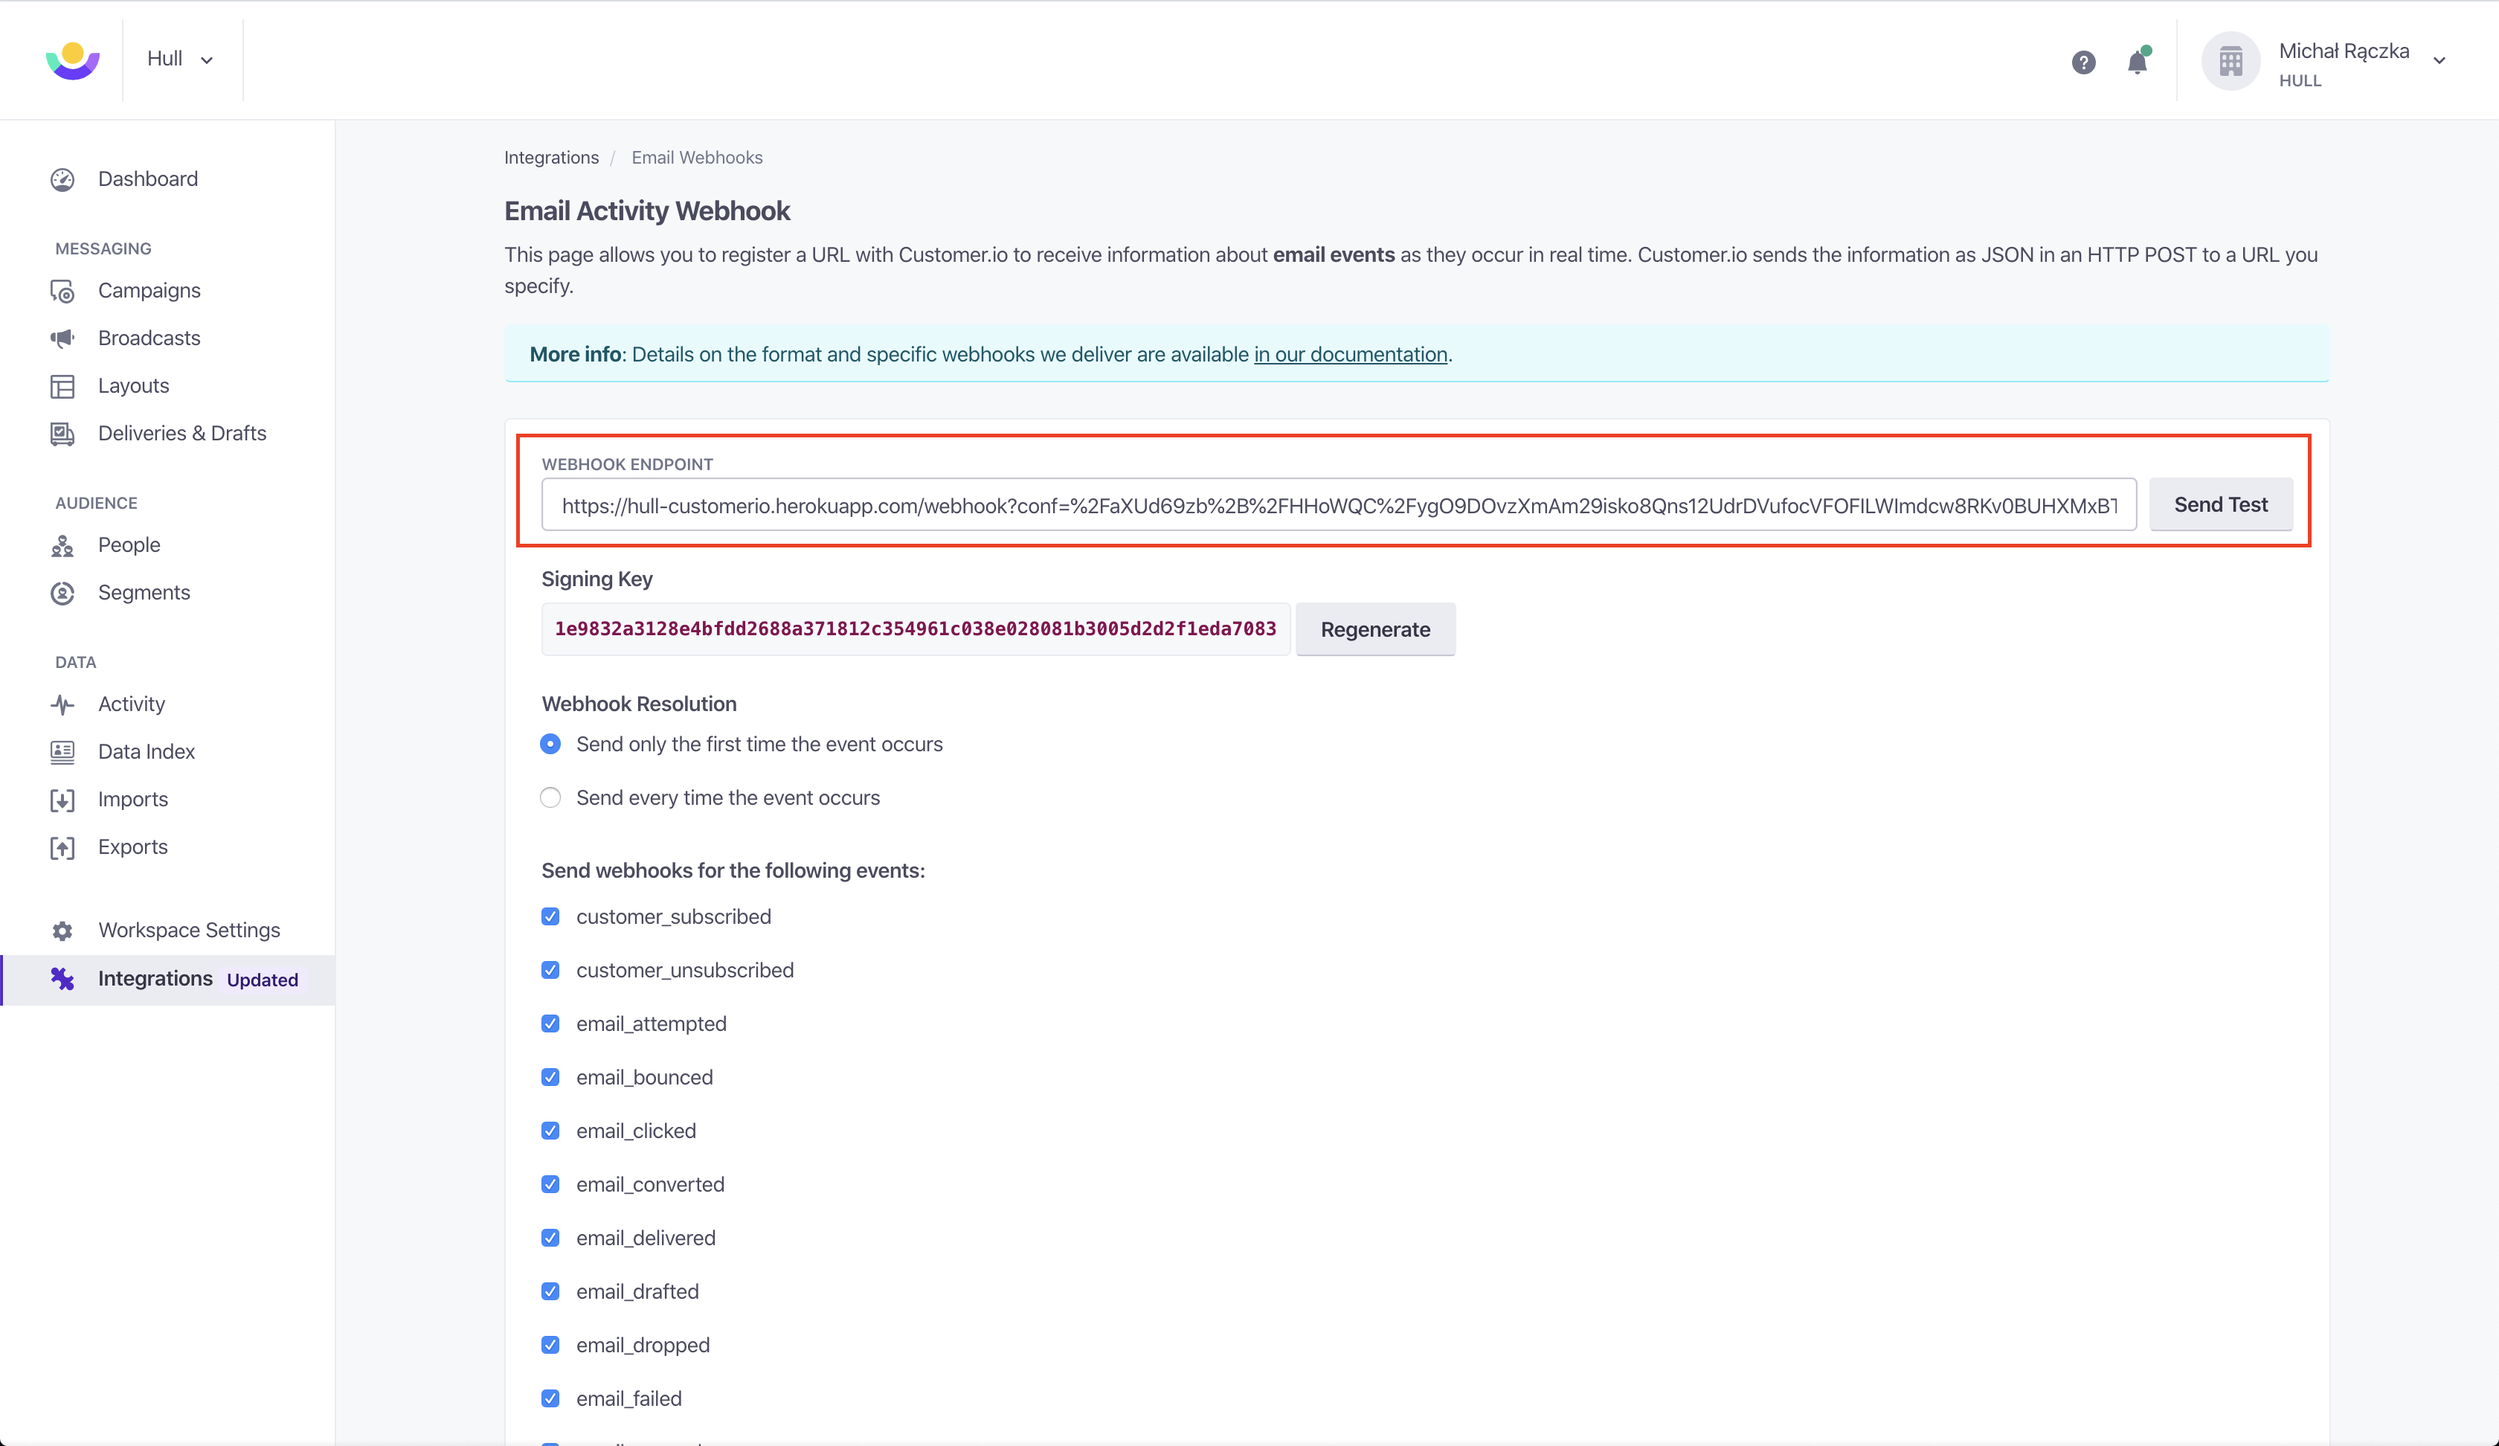
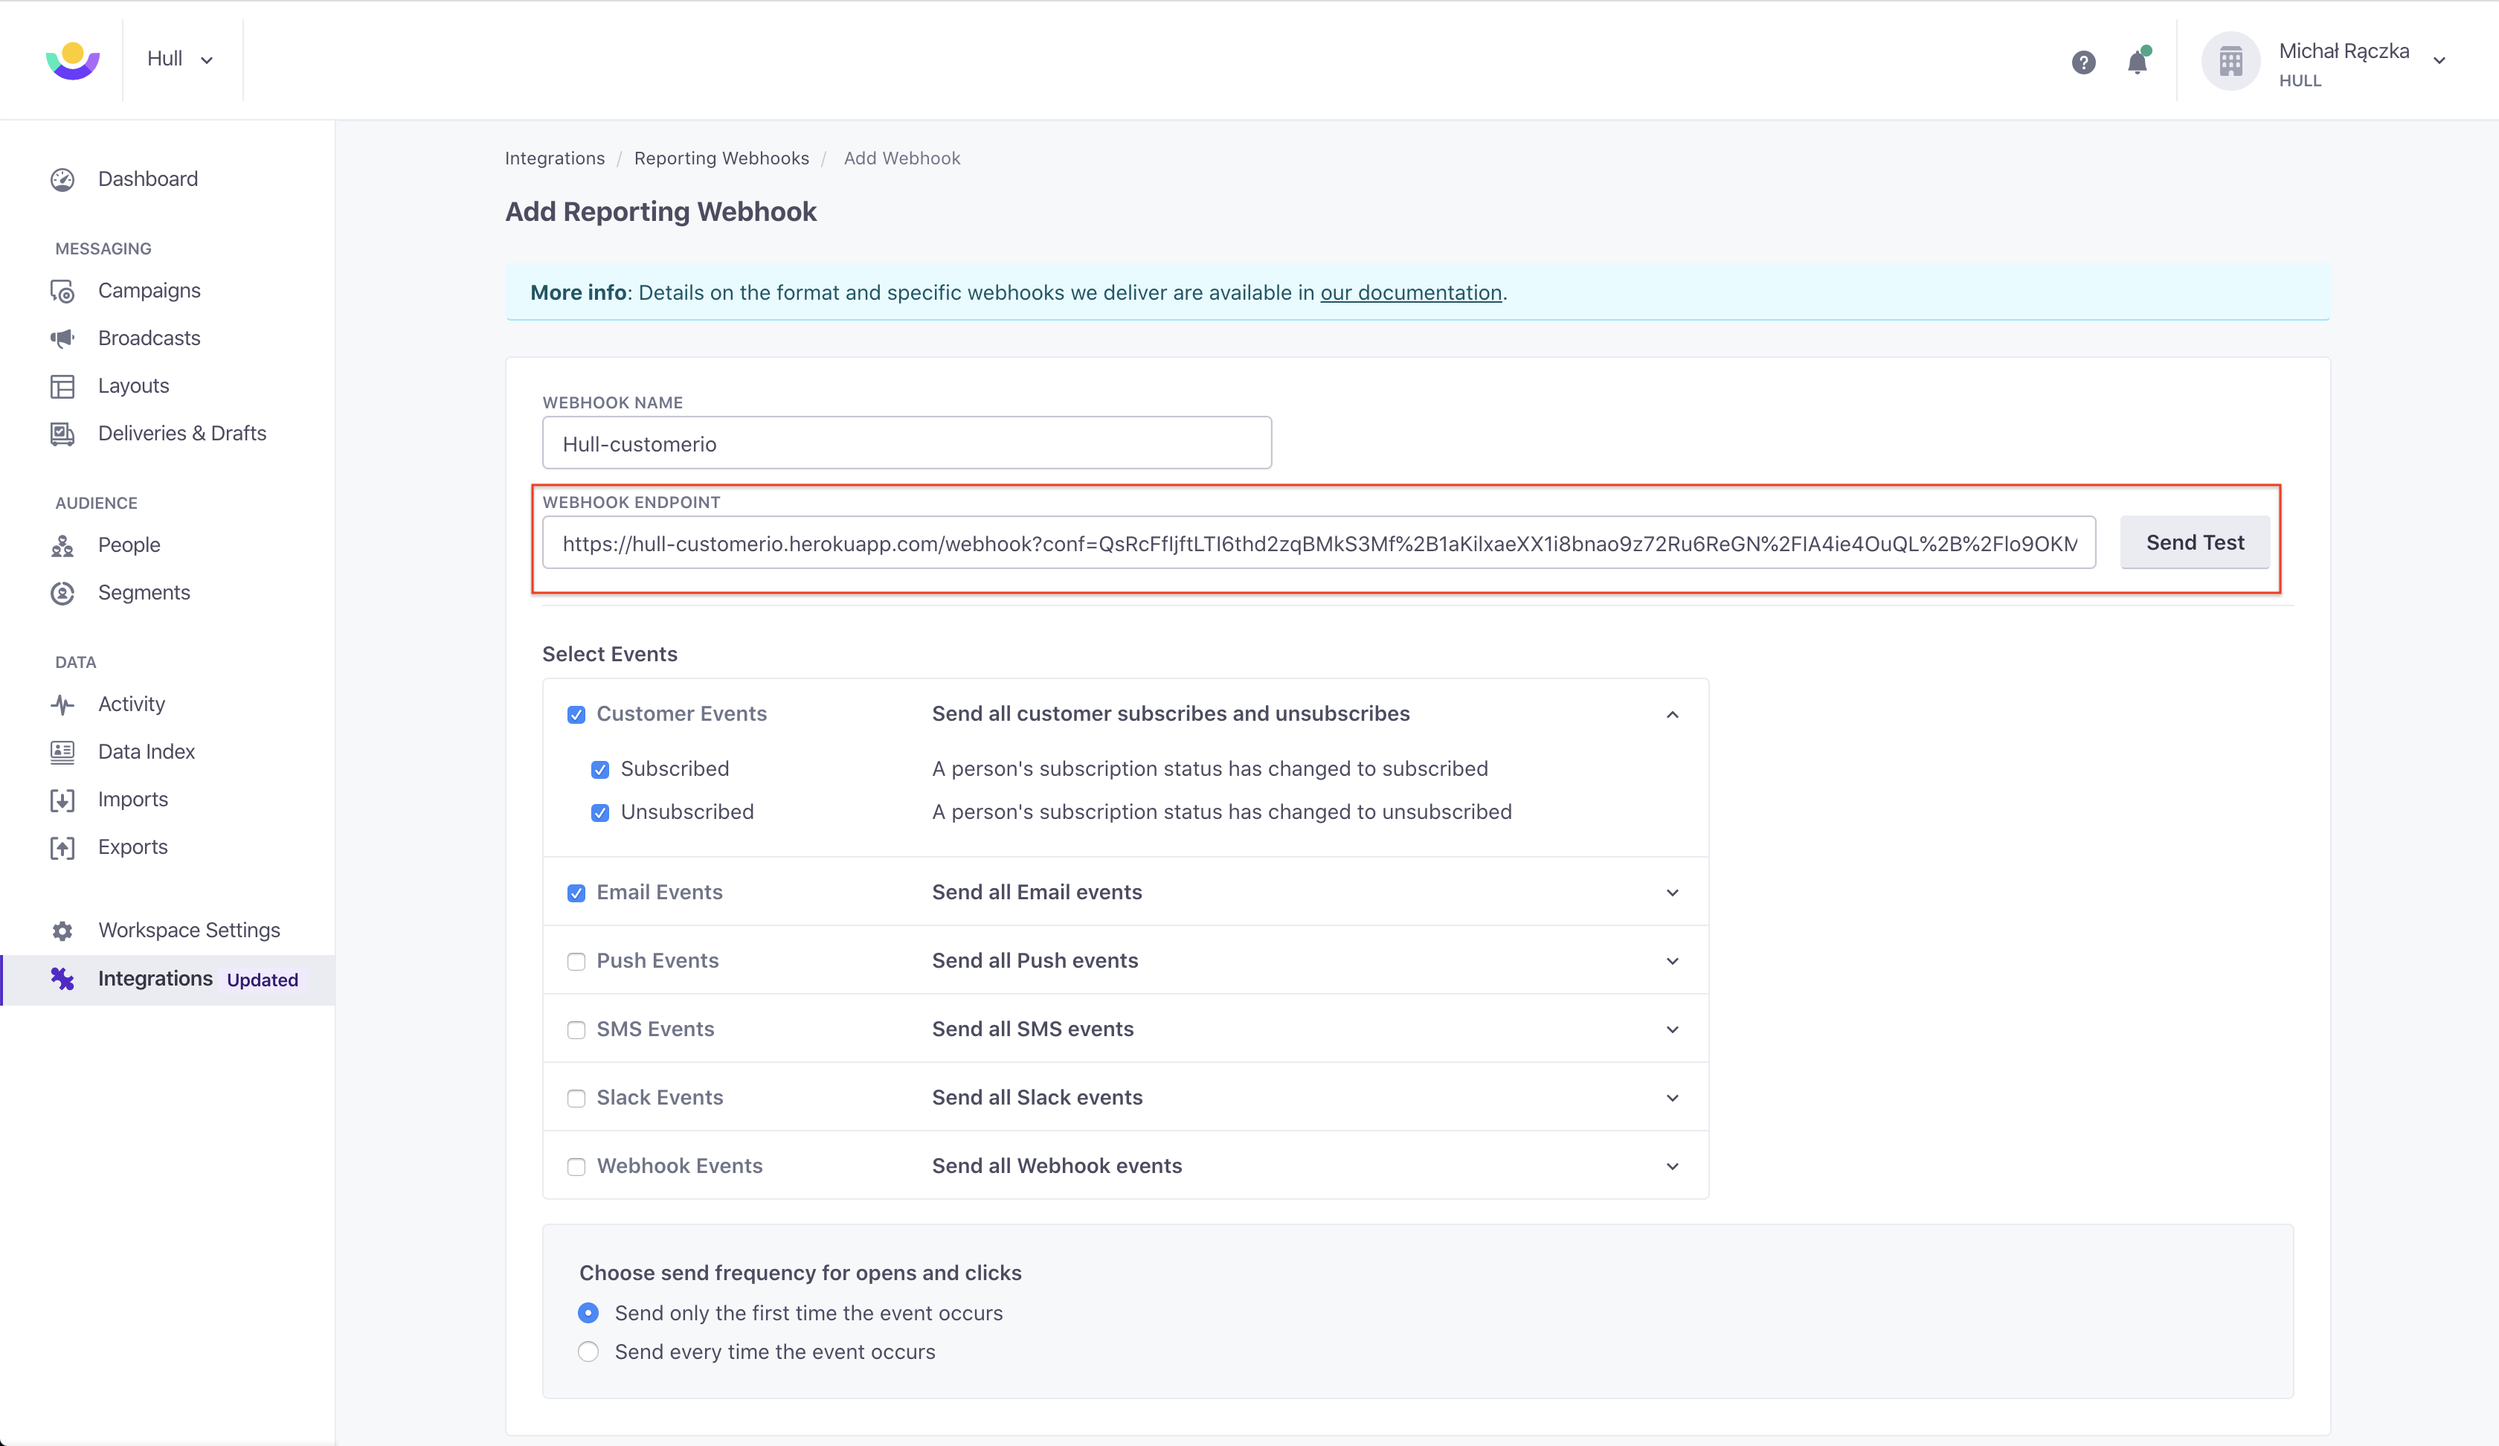
Update docs for new webhooks setup procedure

diff --git a/packages/connectors/hull-customerio/assets/readme.md b/packages/connectors/hull-customerio/assets/readme.md
@@ -41,8 +41,9 @@ To receive customer activity from Customer.io you need to tell Customer.io to se
   ![Copy Webhook Url](./docs/webhook01.png)
 2. Then go to **Customer.io**.
 3. Click on "Integrations".
-4. Find and click on "Email Activity Webhooks".
-5. Paste the URL you copied in the box. Check all event types below it.
+4. Find and click on "Reporting Webhooks".
+5. Click on "Add Reporting Webhooks". Make sure you don't already have a Hull webhook set-up, as it will count towards your limits in Hull because of duplicated traffic.
+5. Paste the URL you copied in the box. Check all "Customer" and "Email" event types below it (support for more events later on).
 6. Click on the button “Send Test” and save your changes if the symbol indicates success.
   ![Paste Webhook Url in Customer.io](./docs/webhook03.png)
 
